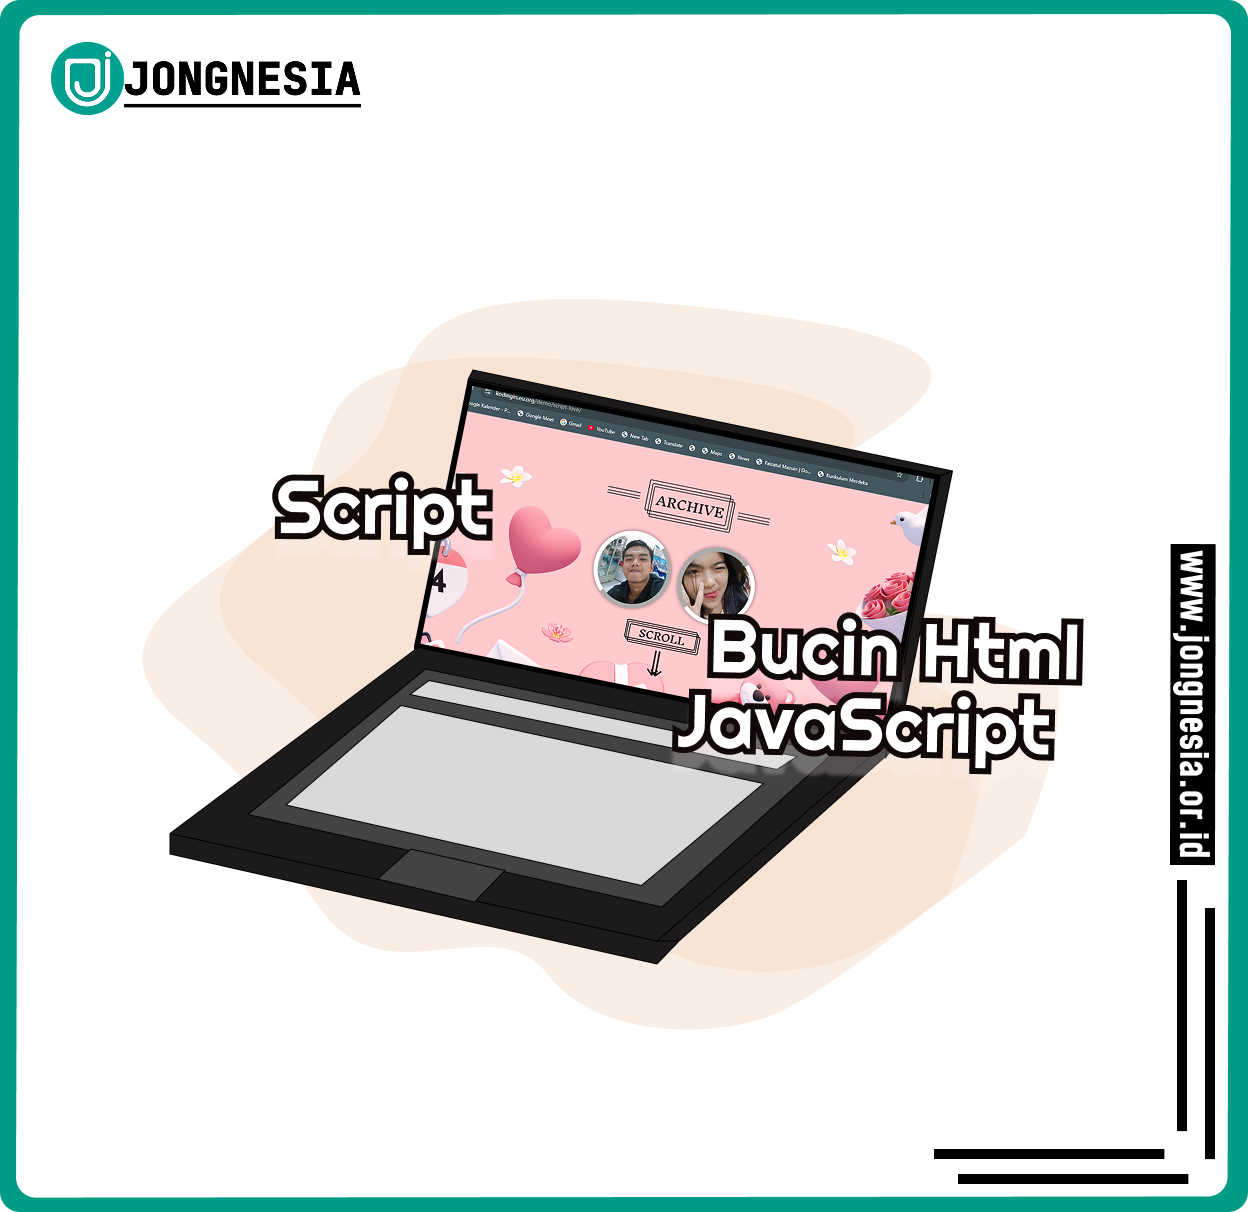
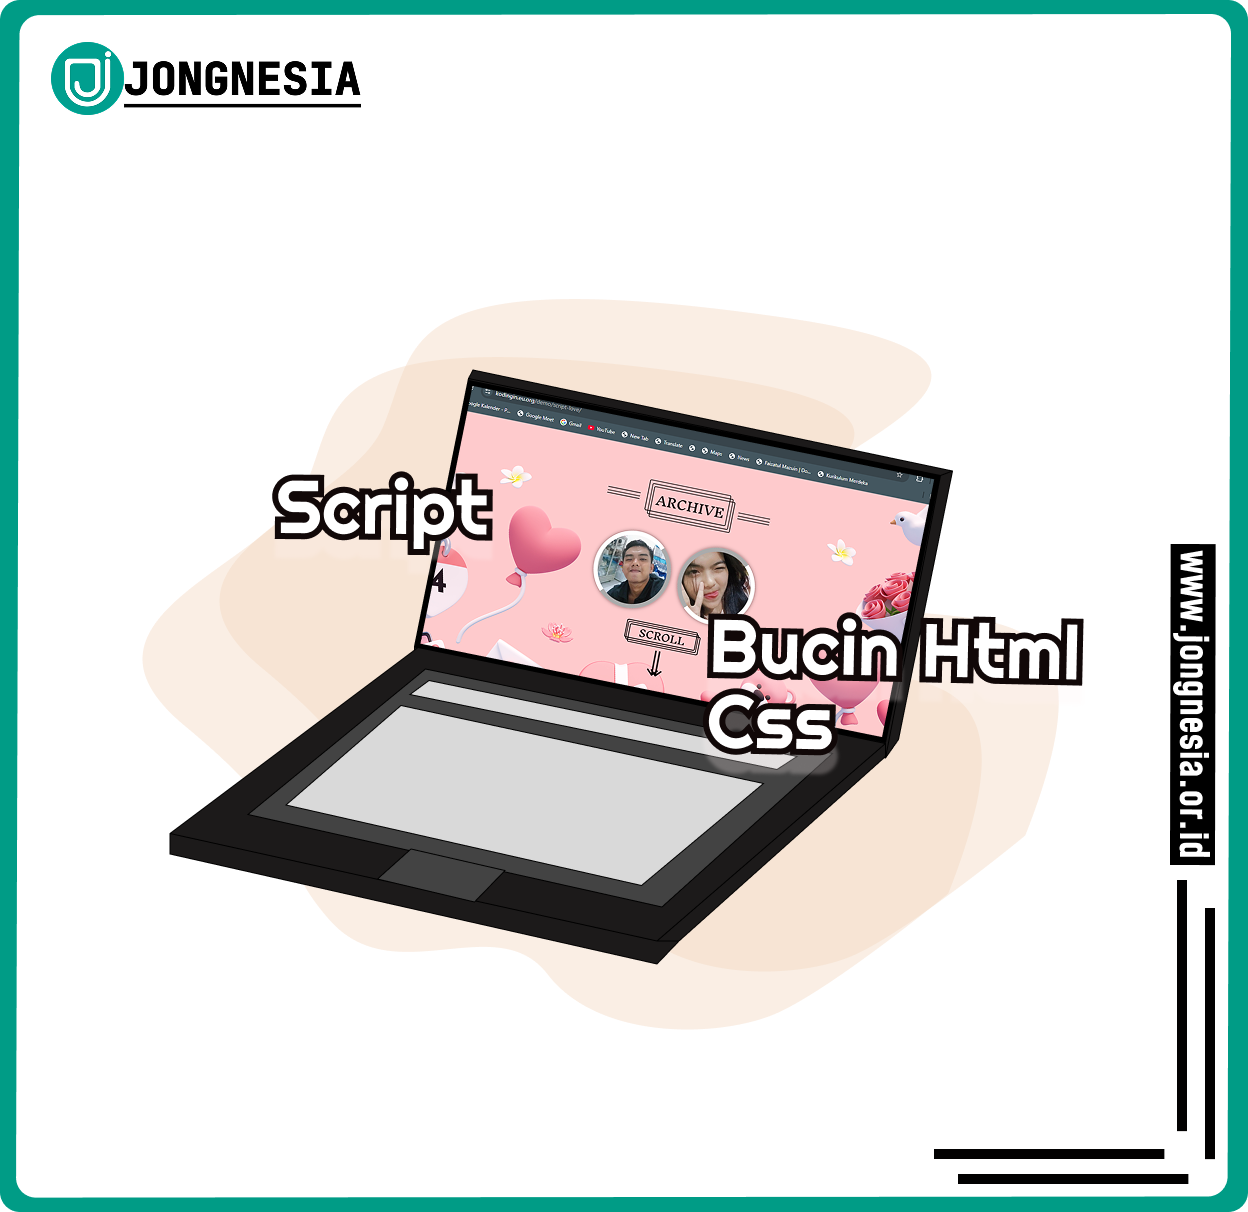
New post 1

Changed region(s): [[0.5312, 0.5495, 0.8438, 0.6411]]

diff --git a/content/post/script-bucin-html-js.md b/content/post/script-bucin-html-js.md
@@ -1,19 +1,19 @@
 ---
 ilustration: "/ilustration/scriptbucin.png"
 penulis: "Rysnanto"
-description: "Contoh script bucin HTML dan JavaScript untuk programmer yang ingin menyatakan cinta lewat halaman web interaktif yang lucu dan romantis."
-slug: "script-bucin-html-js"
-title: "Script Bucin HTML JS: Ekspresikan Rasa Sayang Lewat Kode Web"
+description: "Contoh script bucin HTML , CSS untuk programmer yang ingin menyatakan cinta lewat halaman web interaktif yang lucu dan romantis."
+slug: "script-bucin-html-css"
+title: "Script Bucin HTML CSS: Ekspresikan Rasa Sayang Lewat Kode Web"
 date: 2025-07-18T17:27:03+07:00
 draft: false
 ---
 
 ## Kenapa Harus Ngoding Bucin 
 
-Karena cinta dan kode itu bisa saling melengkapi. Programmer seperti kita sering mengekspresikan perasaannya lewat baris kode, kita atau hanya saya ya? haha. Dengan script bucin HTML + JS, kamu bisa menunjukkan sisi romantis kamu — bukan cuma lewat kata, tapi lewat logika dan kreativitas!, Kalau saya sering sekali membawa nama pasangan kedalam project saya sebagai contoh ketika membuat WhatsaapBot nama dari project tersebut adalah NesBot (Nesa Bot).
+Karena cinta dan kode itu bisa saling melengkapi. Programmer seperti kita sering mengekspresikan perasaannya lewat baris kode, kita atau hanya saya ya? haha. Dengan script bucin HTML + CSS, kamu bisa menunjukkan sisi romantis kamu — bukan cuma lewat kata, tapi lewat logika dan kreativitas!, Kalau saya sering sekali membawa nama pasangan kedalam project saya sebagai contoh ketika membuat WhatsaapBot nama dari project tersebut adalah NesBot (Nesa Bot).
 
 ## Contoh Script Bucin HTML + JS 
-Script ini adalah cara unik buat kamu yang pengin nyatain perasaan pakai kode. Dengan HTML dan JavaScript dasar, kamu bisa bikin halaman romantis yang muncul gambar kamu dan pasangan mu serta di putarkan music romantis. Tinggal modifikasi sedikit foto dan kata - kata , jadilah script bucin versi kamu sendiri!
+Script ini adalah cara unik buat kamu yang pengin nyatain perasaan pakai kode. kamu bisa bikin halaman romantis yang muncul gambar kamu dan pasangan mu serta di putarkan music romantis. Tinggal modifikasi sedikit foto dan kata - kata , jadilah script bucin versi kamu sendiri!
 
 Demo (Abaikan Muka 😁): [https://kodingin.eu.org/demo/script-love/](https://kodingin.eu.org/demo/script-love/)
 
@@ -27,12 +27,12 @@ Hanya tinggal mengisi form dan tunggu admin kami akan segera upload script kamu 
 
 ## Kesimpulan
 
-Script bucin HTML dan JavaScript bukan sekadar candaan — ini adalah cara kreatif bagi programmer untuk mengekspresikan perasaannya lewat baris kode. Dengan modal sedikit HTML dan JS dasar, kamu bisa bikin halaman web yang romantis, lucu, dan memorable. Cocok banget buat gebetan, pasangan, atau bahkan jadi portofolio unik kalau kamu kreatifin lebih jauh.
+Script bucin HTML dan CSS bukan sekadar candaan — ini adalah cara kreatif bagi programmer untuk mengekspresikan perasaannya lewat baris kode. Dengan modal sedikit HTML dan JS dasar, kamu bisa bikin halaman web yang romantis, lucu, dan memorable. Cocok banget buat gebetan, pasangan, atau bahkan jadi portofolio unik kalau kamu kreatifin lebih jauh.
 
 Jadi, tunggu apa lagi? Tunjukkan kalau kamu nggak cuma jago ngoding, tapi juga jago bikin baper 😂❤
 
 ```
-bucin , html , javascript , script romantis , web developer ,humor ngoding ,pemrograman cinta , code lucu ,ngoding bucin
+bucin , html , CSS , script romantis , web developer ,humor ngoding ,pemrograman cinta , code lucu ,ngoding bucin
 ```
 
 
